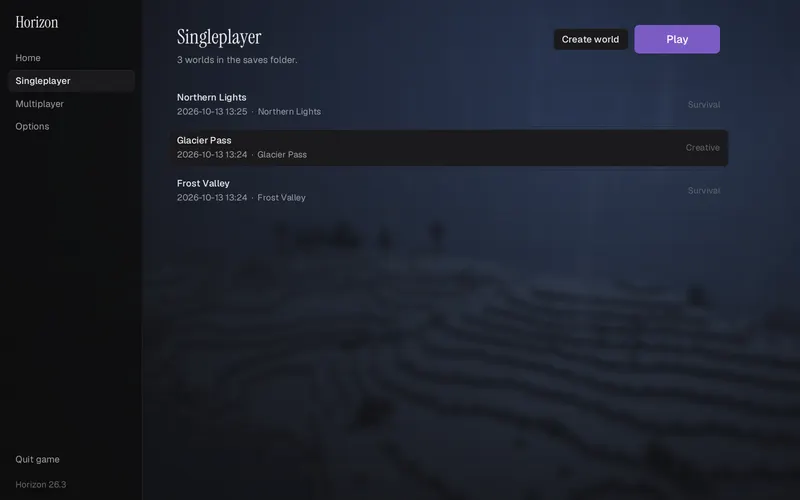
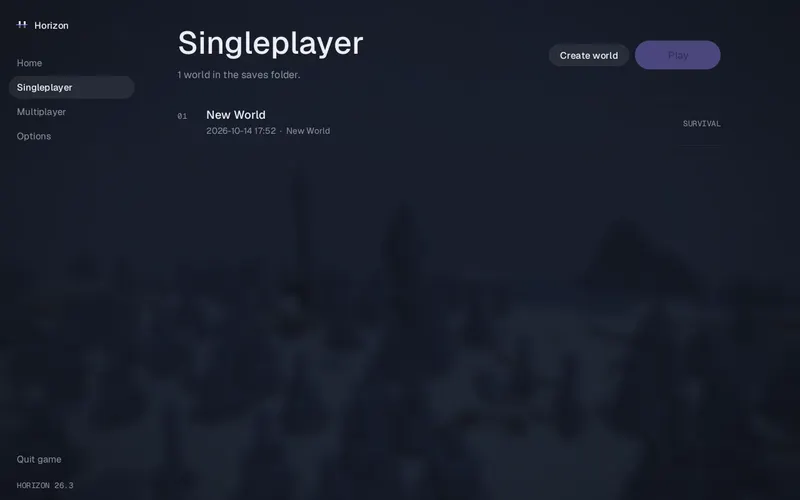
Show the new launcher and menus on the website and in the README
The README banner is redrawn in the new design (docs/media/banner.html), and the launcher and
menu screenshots (README and website) are the restyled ones. The website's launcher section
gains a Launcher tab: its screenshots no longer show the old background, whose licence was
never confirmed.

diff --git a/src/index.html b/src/index.html
@@ -175,18 +175,20 @@
           <div class="screens reveal-media">
             <div class="tabs" role="tablist" aria-label="Horizon's menus">
               <span class="tab-pill" aria-hidden="true"></span>
-              <button type="button" role="tab" id="tab-title" aria-controls="screen-title" aria-selected="true">Title</button>
+              <button type="button" role="tab" id="tab-launcher" aria-controls="screen-launcher" aria-selected="true">Launcher</button>
+              <button type="button" role="tab" id="tab-title" aria-controls="screen-title" aria-selected="false" tabindex="-1">Title</button>
               <button type="button" role="tab" id="tab-worlds" aria-controls="screen-worlds" aria-selected="false" tabindex="-1">Worlds</button>
               <button type="button" role="tab" id="tab-settings" aria-controls="screen-settings" aria-selected="false" tabindex="-1">Settings</button>
               <button type="button" role="tab" id="tab-pause" aria-controls="screen-pause" aria-selected="false" tabindex="-1">Pause</button>
             </div>
             <div class="screen">
-              <div class="screen-panel is-active" role="tabpanel" id="screen-title" aria-labelledby="tab-title"><img loading="lazy" decoding="async" src="/media/menu-title-800.webp" srcset="/media/menu-title-800.webp 800w, /media/menu-title.webp 1600w" sizes="(min-width: 1000px) 720px, 92vw" width="1600" height="1000" alt="Horizon's title screen: a sidebar, the Horizon title, Singleplayer and Multiplayer buttons and the last world played, over a blurred frozen landscape"></div>
-              <div class="screen-panel" role="tabpanel" id="screen-worlds" aria-labelledby="tab-worlds"><img loading="lazy" decoding="async" src="/media/menu-worlds-800.webp" srcset="/media/menu-worlds-800.webp 800w, /media/menu-worlds.webp 1600w" sizes="(min-width: 1000px) 720px, 92vw" width="1600" height="1000" alt="The Singleplayer page: three worlds with their dates and game modes, and Create world and Play buttons"></div>
-              <div class="screen-panel" role="tabpanel" id="screen-settings" aria-labelledby="tab-settings"><img loading="lazy" decoding="async" src="/media/settings-800.webp" srcset="/media/settings-800.webp 800w, /media/settings.webp 1600w" sizes="(min-width: 1000px) 720px, 92vw" width="1600" height="1000" alt="The Video settings in their Simple view: a preset, render distance, field of view, framerate, VSync and GUI scale, each with what it costs"></div>
-              <div class="screen-panel" role="tabpanel" id="screen-pause" aria-labelledby="tab-pause"><img loading="lazy" decoding="async" src="/media/menu-pause-800.webp" srcset="/media/menu-pause-800.webp 800w, /media/menu-pause.webp 1600w" sizes="(min-width: 1000px) 720px, 92vw" width="1600" height="1000" alt="The pause screen of the world Glacier Pass, with Back to game, Open to LAN and Save and quit"></div>
+              <div class="screen-panel is-active" role="tabpanel" id="screen-launcher" aria-labelledby="tab-launcher"><img loading="lazy" decoding="async" src="/media/launcher-800.webp" srcset="/media/launcher-800.webp 800w, /media/launcher.webp 1280w" sizes="(min-width: 1000px) 720px, 92vw" width="1280" height="800" alt="The launcher's Play page: the version, Client and Server, the version picker and Play, the prepared resources and the Minecraft folder as a numbered list"></div>
+              <div class="screen-panel" role="tabpanel" id="screen-title" aria-labelledby="tab-title"><img loading="lazy" decoding="async" src="/media/menu-title-800.webp" srcset="/media/menu-title-800.webp 800w, /media/menu-title.webp 1280w" sizes="(min-width: 1000px) 720px, 92vw" width="1280" height="800" alt="Horizon's title screen: the mark and the pages on the left, the Horizon title, Singleplayer and Multiplayer, the last world played, over a veiled snowy landscape"></div>
+              <div class="screen-panel" role="tabpanel" id="screen-worlds" aria-labelledby="tab-worlds"><img loading="lazy" decoding="async" src="/media/menu-worlds-800.webp" srcset="/media/menu-worlds-800.webp 800w, /media/menu-worlds.webp 1280w" sizes="(min-width: 1000px) 720px, 92vw" width="1280" height="800" alt="The Singleplayer page: the worlds as a numbered list with their dates and game modes, and Create world and Play"></div>
+              <div class="screen-panel" role="tabpanel" id="screen-settings" aria-labelledby="tab-settings"><img loading="lazy" decoding="async" src="/media/settings-800.webp" srcset="/media/settings-800.webp 800w, /media/settings.webp 1280w" sizes="(min-width: 1000px) 720px, 92vw" width="1280" height="800" alt="The Video settings in their Simple view: a preset, render distance, field of view, framerate, VSync and GUI scale, each with what it costs"></div>
+              <div class="screen-panel" role="tabpanel" id="screen-pause" aria-labelledby="tab-pause"><img loading="lazy" decoding="async" src="/media/menu-pause-800.webp" srcset="/media/menu-pause-800.webp 800w, /media/menu-pause.webp 1280w" sizes="(min-width: 1000px) 720px, 92vw" width="1280" height="800" alt="The pause screen of a world, with Back to game, Open to LAN and Save and quit"></div>
             </div>
-            <p class="screen-caption">Horizon's own menus, in the game. The launcher opens them, or vanilla's.</p>
+            <p class="screen-caption">The launcher, and Horizon's own menus in the game. The launcher opens them, or vanilla's.</p>
           </div>
         </div>
       </section>

diff --git a/LEGAL.md b/LEGAL.md
@@ -52,6 +52,7 @@ and 800 pixels wide by `scripts/assets.mjs`.
 | `menu-worlds*.webp` | `docs/media/menu-worlds.png` | Horizon's own world list |
 | `menu-options*.webp` | `docs/media/menu-options.png` | Horizon's own options screen |
 | `menu-pause*.webp` | `docs/media/menu-pause.png` | Horizon's own pause screen |
+| `launcher*.webp` | `docs/media/launcher-play.png` | The Horizon launcher's Play page (no background image) |
 | `settings*.webp` | `docs/media/settings-simple.png` | Horizon's own Video settings, Simple view |
 | `hero*.webp`, `sunset*.webp`, `village*.webp`, `survival*.webp`, `nether*.webp`, `night*.webp`, `underwater*.webp` | `docs/media/*.jpg` | In-game views; none shows a Mojang logo or splash text |
 
